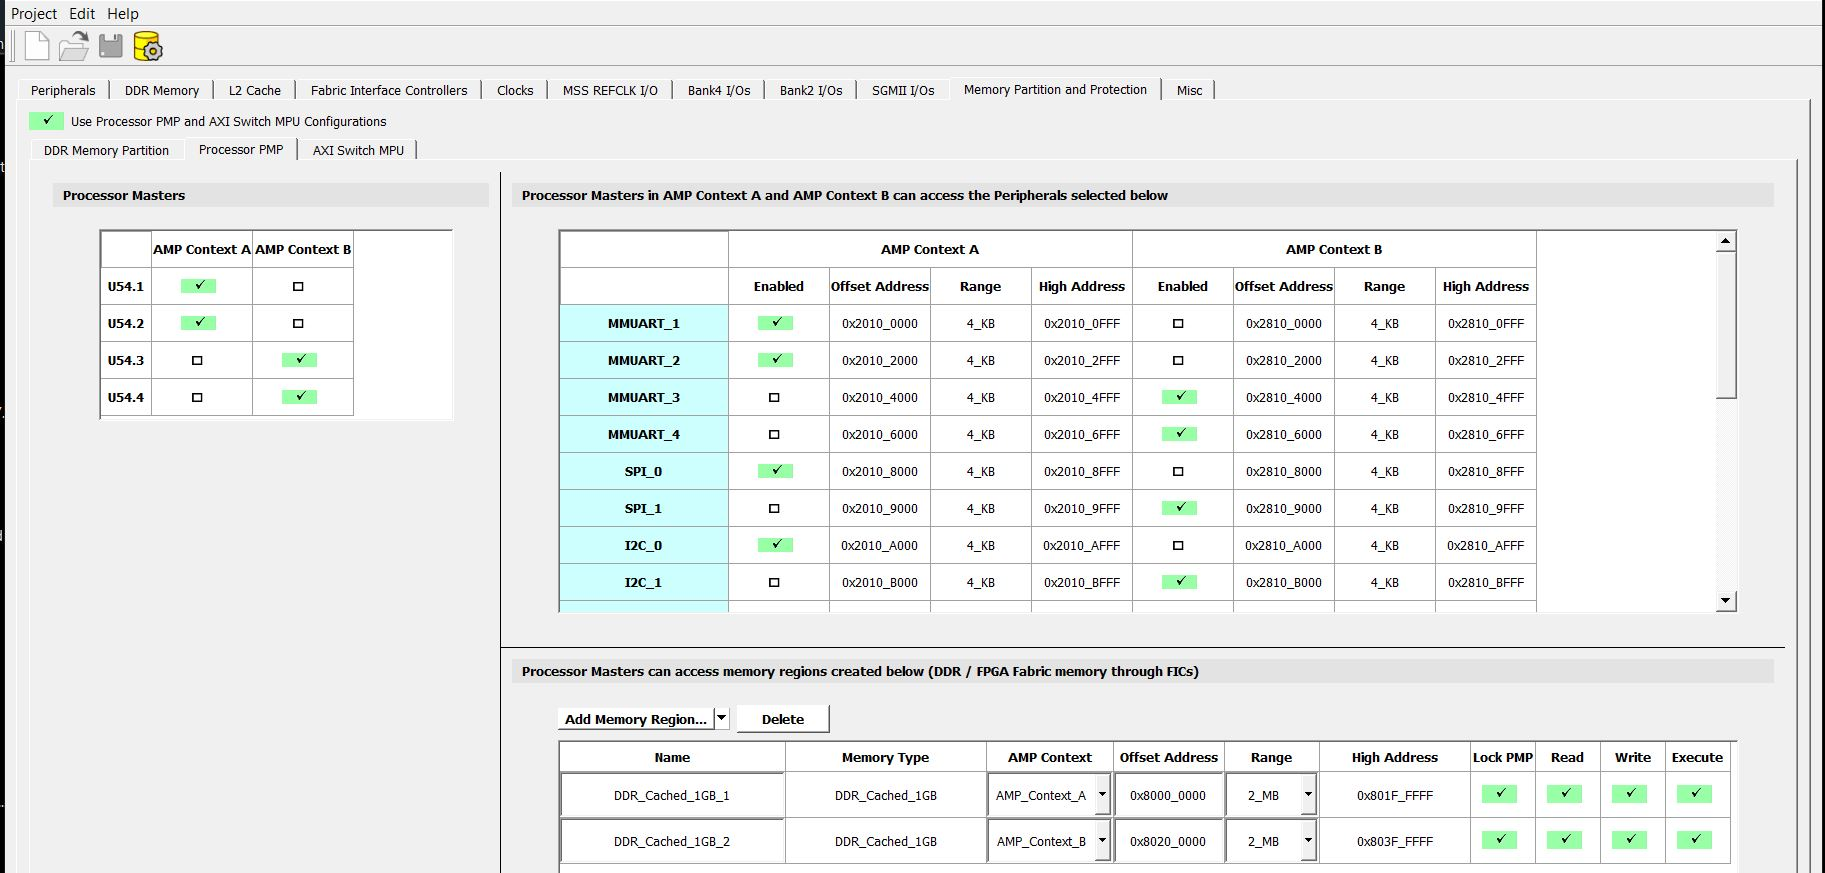
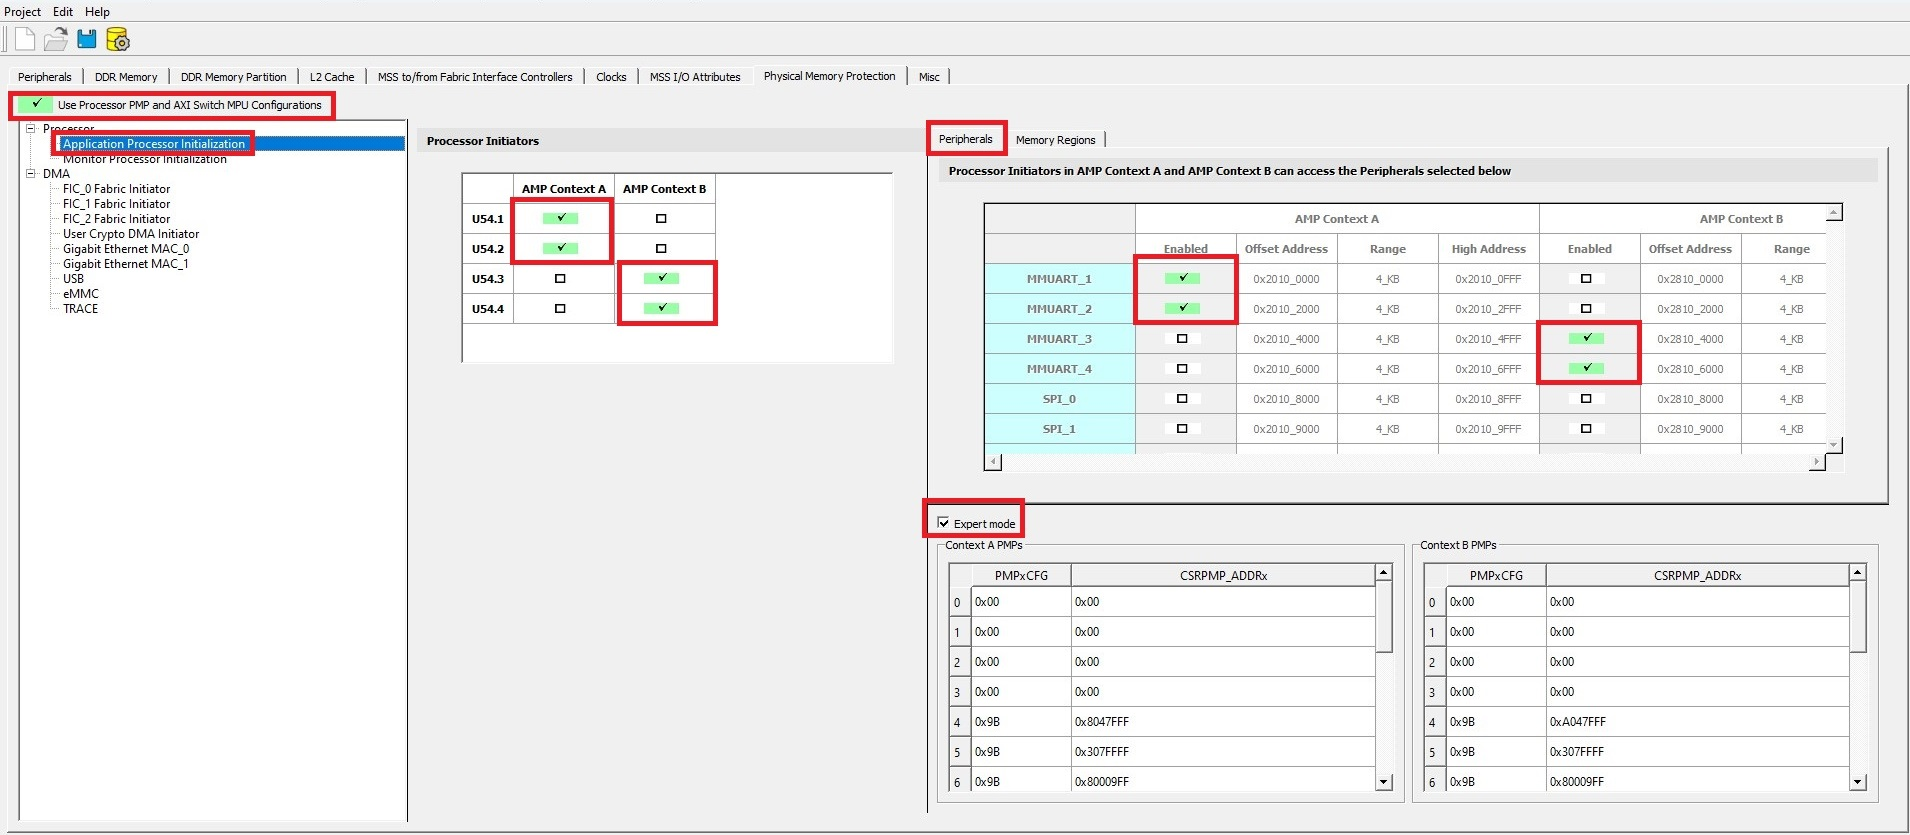
applications-and-demos: mpfs-pmp-demo: updates
mpfs-pmp-demo.md file updates with respect to
Libero2025.2 and HSS vertion 2026.04

Add the MPU configuration values for eMMC DMA, which
were not included in earlier versions of HSS and Libero

Changed region(s): [[0.0, 0.0, 1.0, 1.0]]

diff --git a/applications-and-demos/mpfs-pmp-demo.md b/applications-and-demos/mpfs-pmp-demo.md
@@ -18,9 +18,9 @@ In this design, PMP is enabled in all the U54 processor cores to restrict the ac
 
 ## Requirements
 
-* PolarFire SoC Icicle Kit (MPFS250T_ES-FCVG484E)
-* SoftConsole v2021.1
-* Libero SoC v2021.1
+* PolarFire SoC Icicle Kit (MPFS250T_ES-FCVG484E or MPFS250T-FCVG484E)
+* SoftConsole v2021.1 or later
+* Libero SoC v2025.2
 * Serial Terminal program (extra-putty)
 * Host PC - Windows 10 OS
 
@@ -37,19 +37,30 @@ Before running the user application, make sure to complete the following steps:
 ## Enabling PMP in the MSS configurator tool and generate xml file
 
 * Download the icicle-kit-reference-design from [here](https://mi-v-ecosystem.github.io/redirects/releases-icicle-kit-reference-design).
-* Extract the downloaded design. Go to the path icicle-kit-reference-design\script_support and open PF_SoC_MSS_Icicle_eMMC.cfg with MSS configurator tool.
+* Extract the downloaded design. Go to the path script_support/mss_cfg_files/MPFS250T/MPFS_ICICLE_MSS_linux_ES.cfg with MSS configurator tool.
 * In the PolarFire SoC MSS Configurator > Memory partitions and Protection tab > "Use processor PMP and AXI switch MPU configurations" tick the checkbox to enable PMP.
 * In the PolarFire SoC MSS Configurator > Memory Partition and Protection tab > Processor PMP tab, there are two contexts Context A and Context B. Each Context's associations with the U54 processor cores, peripherals and memory regions are configured here. Each peripheral and/or memory region can be protected with access permissions, such as, read, write and execute. The peripheral or memory regions can be enabled in either Context A or in Context B.
   * U54_1 and U54_2 processor cores in Context A.
   * U54_3 and U54_4 processor cores in Context B.
-* Save and generate ICICLE_MSS_mss_cfg.xml file.
-
-In this design:
-
-* DDR_Cached_1GB_1 address 0x80000000 and size 2 MB is added to provide memory access (read, write, and execute permissions) for Context A.
-* DDR_Cached_1GB_2 address 0x80200000 and size 2 MB is added to provide memory access (read, write, and execute permissions) for Context B.
 
 ![](./images/mpfs-pmp-demo/mss.jpg)
+
+* Memory Regions
+  * DDR_Cached_1GB_1 address 0x80000000 and size 2 MB is added to provide memory access (read, write, and execute permissions) for Context A.
+  * DDR_Cached_1GB_2 address 0x80200000 and size 2 MB is added to provide memory access (read, write, and execute permissions) for Context B.
+  > [!NOTE] After completing the edits, please select the “Expert Mode” checkbox to disable further editing and display the final values for the PMP register and we can directly edit the PMP register values to optimize the number of registers used.
+
+![](./images/mpfs-pmp-demo/mss-1.jpg)
+
+* DMA Memory
+  * EMMC_DDR_Non_Cached_16GB_1 address 0x103F000000 and size 16MB is added to provide memory access (read, write, and execute permissions)
+  * EMMC_DDR_Non_Cached_256MB_2 address 0x000A000000 and size 2MB is added to provide memory access (read, write, and execute permissions)
+  * EMMC_DDR_Non_Cached_256MB_2 address 0x0080000000 and size 2MB is added to provide memory access (read, write, and execute permissions)
+  > [!NOTE] After completing the edits, please select the “Expert Mode” checkbox to disable further editing and display the final values for the PMP register and We can directly edit the PMP register values to optimize the number of registers used.
+
+![](./images/mpfs-pmp-demo/mss-2.jpg)
+
+* Save and generate ICICLE_MSS_mss_cfg.xml file.
 
 For more information about PMP see [PolarFire SoC Standalone MSS Configurator User Guide](https://onlinedocs.microchip.com/pr/GUID-BC096324-C726-48DB-8987-EF2BBC748A73-en-US-7/index.html?GUID-8F623149-225E-4A84-8BC9-3142A409FAD4) and [PolarFire SoC FPGA MSS Technical Reference Manual](https://ww1.microchip.com/downloads/aemDocuments/documents/FPGA/ProductDocuments/ReferenceManuals/PolarFire_SoC_FPGA_MSS_Technical_Reference_Manual_VC.pdf).
 
